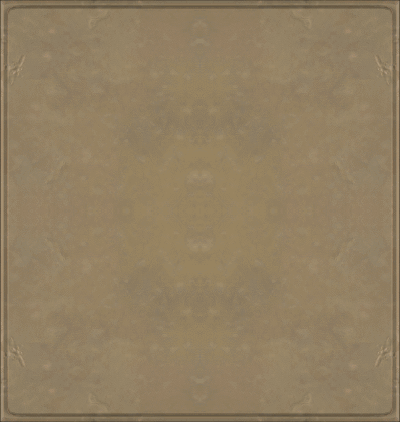
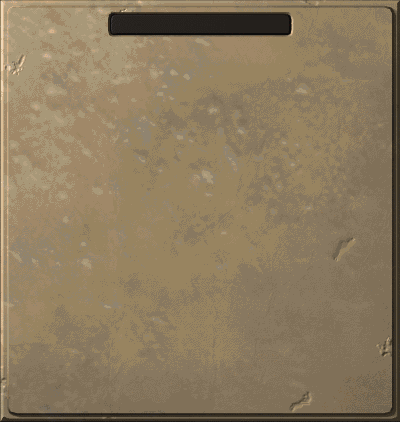
Git pages, post 2

diff --git a/docs/index.html b/docs/index.html
@@ -7,8 +7,81 @@
 		<title>The M.A.X.: Mechanized Assault & Exploration Map Editor</title>
 	</head>
 	<body>
-		<section>
+		<header>
 			<img src="./images/title.png" title="M.A.X.: Mechanized Assault & Exploration Map Editor">
+		</header>
+
+		<section class="log">
+			<div class="log-bg log-header">Current progress report #1
+				<div class="log-date">log date: distant future from 2024-09-02</div>
+			</div>
+			<div class="log-bg log-message">
+				<p>
+					Here is an overview of the current work progress on the "utility"
+					(sometimes referred to as the M.A.X. Map Editor).
+					Information about related work can be found below.
+				</p>
+			</div>
+			<div class="log-bg log-message">
+				<p>
+					Progress on the "utility":
+				</p>
+				<ul>
+					<li><span class="done">done</span> Loading predefined WRL file;</li>
+					<li><span class="done">done</span> Saving edited maps;</li>
+					<li><span class="done">done</span> Rendering world map;</li>
+					<li><span class="done">done</span> Panning and zooming (1/4x, 1/2x, 1x, 2x) world map;</li>
+					<li><span class="done">done</span> Minimap with panning and zooming;</li>
+					<li><span class="done">done</span> Toggleable (on/off) side panel and windowed minimap;</li>
+					<li><span class="done">done</span> Side panel with tile selector with tile grouping);</li>
+					<li><span class="done">done</span> Selectable tile size in selector (16px, 24px, 32px, 48px, 64px);</li>
+					<li><span class="done">done</span> History of used tiles (current tile and two previous ones for faster switching);</li>
+					<li><span class="done">done</span> Map resize tool with selectable origin (top/mid/bottom - left/center/right);</li>
+					<li><span class="done">done</span> Simple cell drawing (atm: with minor bug);</li>
+					<li><span class="done">done</span> Toggleable (on/off) layers: grid, highlight tile type (water, shore, ground, obstacle).</li>
+				</ul>
+			</div>
+			<div class="log-bg log-panel">
+				<div class="label" title="The leaked sneak peek of internal build:">The leaked sneak peek of internal build:</div>
+				<div class="grid grid-3c">
+					<div><img class="log-screenshot" src="images/screens/preview_screen_0002_small.png" title="The leaked sneak peek of internal build" data-preview="true" /></div>
+					<div><img class="log-screenshot" src="images/screens/preview_screen_0003_small.png" title="The leaked sneak peek of internal build" data-preview="true" /></div>
+					<div><img class="log-screenshot" src="images/screens/preview_screen_0004_small.png" title="The leaked sneak peek of internal build" data-preview="true" /></div>
+					<div><img class="log-screenshot" src="images/screens/preview_screen_0005_small.png" title="The leaked sneak peek of internal build" data-preview="true" /></div>
+					<div><img class="log-screenshot" src="images/screens/preview_screen_0010_small.png" title="The leaked sneak peek of internal build" data-preview="true" /></div>
+					<div><img class="log-screenshot" src="images/screens/preview_screen_0011_small.png" title="The leaked sneak peek of internal build" data-preview="true" /></div>
+				</div>
+			</div>
+
+			<div class="log-bg log-message">
+				<p>
+					In addition to the main task, work is ongoing on related features, such as tile consolidation,
+					grouping, and matching. This work will enhance the functionality of the 'utility' by providing
+					the metadata required for auto-shore feature or random map generation.
+				</p>
+			</div>
+			<div class="log-bg log-message">
+				<p>
+					Progress on related work:
+				</p>
+				<ul>
+					<li><span class="done">done</span> Consolidation of all tiles per planet;
+					<li><span class="done">done</span> Grouping tiles per type (water, shore, mountains, ...);
+					<li><span class="done">done</span> Matching tiles by matching sides;
+					<li><span class="partial">partial</span> Tile templates for fast and accurate drawing mountains, trees, pyramids, ...
+				</ul>
+			</div>
+			<div class="log-bg log-panel">
+				<div class="label" title="The leaked images of internal tools:">The leaked images of internal tools:</div>
+				<div class="grid grid-3c">
+					<div><img class="log-screenshot" src="images/screens/preview_screen_0013_small.png" title="The leaked images of internal tools" data-preview="true" /></div>
+					<div><img class="log-screenshot" src="images/screens/preview_screen_0012_small.png" title="The leaked images of internal tools" data-preview="true" /></div>
+					<div><img class="log-screenshot" src="images/screens/preview_screen_0006_small.png" title="The leaked images of internal tools" data-preview="true" /></div>
+					<div><img class="log-screenshot" src="images/screens/preview_screen_0007_small.png" title="The leaked images of internal tools" data-preview="true" /></div>
+					<div><img class="log-screenshot" src="images/screens/preview_screen_0009_small.png" title="The leaked images of internal tools" data-preview="true" /></div>
+					<div><img class="log-screenshot" src="images/screens/preview_screen_0008_small.png" title="The leaked images of internal tools" data-preview="true" /></div>
+				</div>
+			</div>
 		</section>
 
 		<section class="log">
@@ -36,13 +109,11 @@
 					which would then be used to develop new habitable planets.
 				</p>
 			</div>
-			<div class="log-bg log-message">
-				<P>
-					The very first public preview of the "utility":
-					<div class="log-bg log-panel">
-						<img class="log-screenshot" src="images/screens/preview_screen_0001.png" data-preview="true" />
-					</div>
-				</p>
+		</div>
+		<div class="log-bg log-panel">
+			<div class="label" title="The very first public preview of the "utility":">The very first public preview of the "utility":</div>
+			<div class="grid">
+				<div><img class="log-screenshot" src="images/screens/preview_screen_0001_small.png" data-preview="true" title="The very first public preview of the &quot;utility&quot;" /></div>
 			</div>
 		</section>
 	</body>

diff --git a/docs/styles.css b/docs/styles.css
@@ -16,12 +16,19 @@ body {
 	font-family: ArcadeClassic, Arial, Helvetica, sans-serif;
 	font-size: 19px;
 
+	background-color: #000;
 	background: url('./images/sitebg.png');
 	background-attachment: fixed;
 	background-size: cover;
     background-position: center;
 
 	cursor: default;
+}
+
+header {
+	width: 640px;
+	overflow: hidden;
+	margin: 10px auto;
 }
 
 section {
@@ -38,6 +45,47 @@ p {
 
 	& + p {
 		margin-top: 0.5em;
+	}
+}
+
+ul {
+	list-style-type: none;
+	margin: 0 0 0 10px;
+	padding: 0;
+	line-height: 1.5em;
+
+	li {
+		line-height: 1.3em;
+	}
+}
+
+.done {
+	font-size: 15px;
+	color: #0d0;
+
+	&::before {
+		content: "[";
+		display: inline;
+	}
+
+	&::after {
+		content: "]";
+		display: inline;
+	}
+}
+
+.partial {
+	font-size: 15px;
+	color: #dd0;
+
+	&::before {
+		content: "[";
+		display: inline;
+	}
+
+	&::after {
+		content: "]";
+		display: inline;
 	}
 }
 
@@ -69,8 +117,8 @@ p {
 	padding: 16px;
 
 	border-image-source: url('./images/logbg.png');
-	border-image-slice: 10 10 10 10 fill;
-	border-image-width: 10px 10px 10px 10px;
+	border-image-slice: 14 14 14 14 fill;
+	border-image-width: 14px 14px 14px 14px;
 	border-image-outset: 0px 0px 0px 0px;
 	border-image-repeat: round round;
 
@@ -88,7 +136,7 @@ p {
 
 .log-message {
 	color: #0f0;
-	text-shadow: 1px 0 1px #0f0;
+	text-shadow: 0 0 3px #0d0;
 }
 
 .log-screenshot {
@@ -97,13 +145,54 @@ p {
 
 .log-panel {
 	margin: 10px;
-	padding: 10px;
+	padding: 14px 12px 14px 14px;
 
 	border-image-source: url('./images/panel.png');
-	border-image-slice: 10 10 10 10 fill;
-	border-image-width: 10px 10px 10px 10px;
+	border-image-slice: 40 125 12 125 fill;
+	border-image-width: 40px 125px 12px 125px;
 	border-image-outset: 0px 0px 0px 0px;
-	border-image-repeat: round round;
+	border-image-repeat: stretch stretch;
+
+	.label {
+		margin: 2px 105px 8px;
+
+		color: #0d0;
+		font-size: 17px;
+		white-space: nowrap;
+		overflow: hidden;
+		text-overflow: ellipsis;
+	}
+}
+
+.grid {
+	display: grid;
+	gap: 6px;
+	grid-template-columns: repeat(1, 1fr);
+
+	&.grid-3c {
+		grid-template-columns: repeat(3, 1fr);
+	}
+
+	div:has(> img) {
+		display: flex;
+		justify-items: center;
+		align-items: center;
+
+		width: calc(100% - 4px);
+		height: calc(100% - 4px);
+		padding: 2px;
+
+		border-radius: 6px;
+		box-shadow: inset -2px -2px #eeaa, inset 2px 2px #553a;
+
+		background: url("./images/scrnbg.png");
+
+		img {
+			width: calc(100% - 2px);
+			height: calc(100% - 2px);
+			border-radius: 5px;
+		}
+	}
 }
 
 
@@ -118,6 +207,15 @@ p {
 	bottom: 0;
 	background: #100a;
 
-	margin: 10px;
-	padding: 10px;
+	.log-panel {
+		max-width: calc(100vw - 60px);
+		max-height: calc(100vh - 60px);
+
+		img {
+			max-width: calc(100vw - 80px);
+			max-height: calc(100vh - 80px);
+			border-radius: 6px;
+		}
+	}
+
 }

diff --git a/docs/scripts/script.js b/docs/scripts/script.js
@@ -5,10 +5,28 @@ document.querySelectorAll('img[data-preview="true"]').forEach(function (image) {
 		const container = document.createElement('div');
 		container.className = 'image-preview-container';
 
-		const previewImage = image.parentElement.cloneNode(true);
-		previewImage.style.position = 'fixed';
+		const panel = document.createElement('div');
+		panel.className = 'log-panel';
+		container.appendChild(panel);
 
-		container.appendChild(previewImage);
+		if (image.title) {
+			const title = document.createElement('div');
+			title.className = 'label';
+			title.textContent = image.title;
+			panel.appendChild(title);
+		}
+
+		const grid = document.createElement('div');
+		grid.className = 'grid';
+		panel.appendChild(grid);
+
+		const bigImgWrapper = document.createElement('div');
+		grid.appendChild(bigImgWrapper);
+
+		const bigImage = document.createElement('img');
+		bigImage.src = image.src.replace('_small.', '.');
+		bigImgWrapper.appendChild(bigImage);
+
 		document.body.appendChild(container);
 
 		container.addEventListener('click', function (event) {
